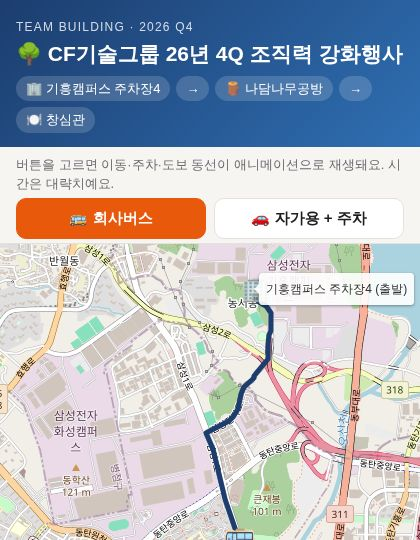
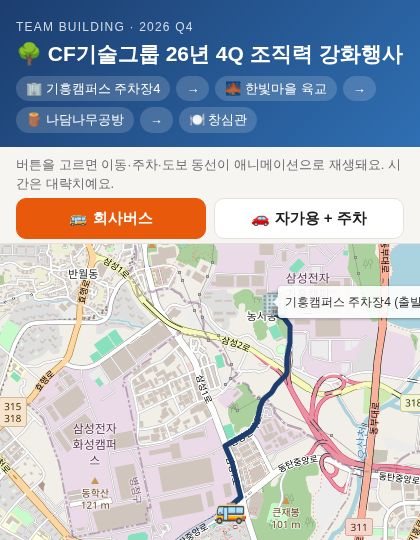
CF 4Q page: company bus drops at 한빛마을 overpass
Claude-Session: https://claude.ai/code/session_01XLoGkQ55rH2pdQUErwRzSn

diff --git a/cf4q.html b/cf4q.html
@@ -29,7 +29,7 @@ main{padding:12px 16px 32px;max-width:760px;margin:0 auto}
 .ev{background:linear-gradient(135deg,#1c3d6e,#2f6fb3);color:#fff;padding:18px 16px 14px}.ev .k{font-size:12px;letter-spacing:.1em;opacity:.8}.ev h1{font-size:21px;margin:2px 0 6px}.flow{display:flex;flex-wrap:wrap;gap:6px;font-size:13px}.flow span{background:rgba(255,255,255,.16);border-radius:14px;padding:3px 10px}
 .toast{position:absolute;left:50%;top:12px;transform:translateX(-50%);z-index:999;background:var(--ink);color:var(--bg);padding:6px 12px;border-radius:20px;font-size:14px;font-weight:600;opacity:0;transition:opacity .3s;pointer-events:none}.toast.on{opacity:1}
 </style></head><body>
-<header class="ev"><div class="k">TEAM BUILDING · 2026 Q4</div><h1>🌳 CF기술그룹 26년 4Q 조직력 강화행사</h1><div class="flow"><span>🏢 기흥캠퍼스 주차장4</span><span>→</span><span>🪵 나담나무공방</span><span>→</span><span>🍽 창심관</span></div></header><p style="margin:8px 16px 0;color:var(--sub);font-size:13px">버튼을 고르면 이동·주차·도보 동선이 애니메이션으로 재생돼요. 시간은 대략치예요.</p>
+<header class="ev"><div class="k">TEAM BUILDING · 2026 Q4</div><h1>🌳 CF기술그룹 26년 4Q 조직력 강화행사</h1><div class="flow"><span>🏢 기흥캠퍼스 주차장4</span><span>→</span><span>🌉 한빛마을 육교</span><span>→</span><span>🪵 나담나무공방</span><span>→</span><span>🍽 창심관</span></div></header><p style="margin:8px 16px 0;color:var(--sub);font-size:13px">버튼을 고르면 이동·주차·도보 동선이 애니메이션으로 재생돼요. 시간은 대략치예요.</p>
 <div class="tabs" id="mtabs"><button data-m="bus" class="on">🚌 회사버스</button><button data-m="car">🚗 자가용 + 주차</button></div>
 <div style="position:relative"><div id="map"></div><div class="toast" id="toast"></div></div>
 <main><div class="stats" id="stats"></div><div id="steps"></div><div class="note" id="note"></div>
@@ -37,7 +37,7 @@ main{padding:12px 16px 32px;max-width:760px;margin:0 auto}
 <div class="btns"><a target="_blank" rel="noopener" href="https://map.kakao.com/link/from/나담나무공방,37.2061036,127.0724585/to/창심관,37.2052149,127.0742600">🚶 공방→창심관 길찾기</a><button id="replay">▶ 다시 재생</button></div></main>
 <script src="https://cdnjs.cloudflare.com/ajax/libs/leaflet/1.9.4/leaflet.min.js"></script>
 <script>
-const D={car:[[37.228236,127.081158],[37.228047,127.081158],[37.228047,127.080939],[37.227876,127.080971],[37.227771,127.081179],[37.227671,127.081196],[37.227363,127.081572],[37.227139,127.082136],[37.227016,127.082376],[37.226547,127.082709],[37.226399,127.082707],[37.226056,127.082717],[37.225269,127.082675],[37.225012,127.082539],[37.224325,127.082493],[37.223817,127.082459],[37.223596,127.082454],[37.223414,127.082428],[37.223312,127.082389],[37.223215,127.082338],[37.222924,127.082019],[37.222645,127.081709],[37.222544,127.081587],[37.222439,127.081464],[37.222366,127.08139],[37.22203,127.081134],[37.221956,127.081058],[37.221904,127.08098],[37.221834,127.080856],[37.221752,127.080709],[37.221689,127.08061],[37.221603,127.080511],[37.221527,127.080441],[37.221409,127.080365],[37.221327,127.080306],[37.221214,127.080249],[37.221059,127.08018],[37.220882,127.080126],[37.220641,127.080056],[37.220194,127.079931],[37.219988,127.079847],[37.219844,127.079761],[37.219674,127.079644],[37.21952,127.079503],[37.219368,127.079308],[37.219287,127.07921],[37.219203,127.079054],[37.218712,127.077893],[37.218542,127.077463],[37.218484,127.077312],[37.21845,127.07724],[37.21843,127.077196],[37.218403,127.077136],[37.218242,127.077217],[37.217961,127.077362],[37.217626,127.077556],[37.217526,127.077608],[37.217119,127.077773],[37.217036,127.077806],[37.216941,127.077843],[37.216775,127.077888],[37.216483,127.077973],[37.216247,127.078051],[37.215011,127.078417],[37.214918,127.078497],[37.214824,127.078523],[37.21452,127.07861],[37.214421,127.078638],[37.214277,127.078683],[37.214097,127.078733],[37.213944,127.078784],[37.213762,127.078848],[37.21365,127.078887],[37.211584,127.07973],[37.211481,127.079772],[37.21147,127.079776],[37.211313,127.079841],[37.211172,127.079899],[37.209674,127.080518],[37.209578,127.080515],[37.209475,127.080501],[37.209423,127.080486],[37.209365,127.080455],[37.209317,127.080429],[37.209271,127.080389],[37.209217,127.08032],[37.209075,127.080062],[37.20903,127.079905],[37.208896,127.07947],[37.208729,127.079012],[37.208588,127.078682],[37.208459,127.078383],[37.208407,127.078279],[37.208377,127.078218],[37.208317,127.078096],[37.20826,127.07798],[37.208177,127.077823],[37.208073,127.077628],[37.207911,127.077349],[37.207749,127.077099],[37.207697,127.077021],[37.207616,127.076898],[37.207462,127.076693],[37.20742,127.076635],[37.207221,127.076381],[37.207029,127.076153],[37.206988,127.076105],[37.206946,127.076056],[37.206898,127.076006],[37.20674,127.075845],[37.206642,127.075743],[37.20653,127.075629],[37.206474,127.075571],[37.206222,127.075336],[37.206167,127.075285],[37.206106,127.075227],[37.205871,127.075042],[37.205655,127.074882],[37.205417,127.074725],[37.205257,127.07463],[37.205076,127.074517],[37.204849,127.074396],[37.204705,127.074311],[37.204488,127.074215],[37.204555,127.073998],[37.204748,127.073377],[37.20488,127.073441],[37.204959,127.073479],[37.205334,127.073663],[37.205309,127.073723],[37.205194,127.074003],[37.20548,127.074209]],cbus:[[37.228236,127.081158],[37.228047,127.081158],[37.228047,127.080939],[37.227876,127.080971],[37.227771,127.081179],[37.227671,127.081196],[37.227363,127.081572],[37.227139,127.082136],[37.227016,127.082376],[37.226547,127.082709],[37.226399,127.082707],[37.226056,127.082717],[37.225269,127.082675],[37.225012,127.082539],[37.224325,127.082493],[37.223817,127.082459],[37.223596,127.082454],[37.223414,127.082428],[37.223312,127.082389],[37.223215,127.082338],[37.222924,127.082019],[37.222645,127.081709],[37.222544,127.081587],[37.222439,127.081464],[37.222366,127.08139],[37.22203,127.081134],[37.221956,127.081058],[37.221904,127.08098],[37.221834,127.080856],[37.221752,127.080709],[37.221689,127.08061],[37.221603,127.080511],[37.221527,127.080441],[37.221409,127.080365],[37.221327,127.080306],[37.221214,127.080249],[37.221059,127.08018],[37.220882,127.080126],[37.220641,127.080056],[37.220194,127.079931],[37.219988,127.079847],[37.219844,127.079761],[37.219674,127.079644],[37.21952,127.079503],[37.219368,127.079308],[37.219287,127.07921],[37.219203,127.079054],[37.218712,127.077893],[37.218542,127.077463],[37.218484,127.077312],[37.21845,127.07724],[37.21843,127.077196],[37.218403,127.077136],[37.218242,127.077217],[37.217961,127.077362],[37.217626,127.077556],[37.217526,127.077608],[37.217119,127.077773],[37.217036,127.077806],[37.216941,127.077843],[37.216775,127.077888],[37.216483,127.077973],[37.216247,127.078051],[37.215011,127.078417],[37.214918,127.078497],[37.214824,127.078523],[37.21452,127.07861],[37.214421,127.078638],[37.214277,127.078683],[37.214097,127.078733],[37.213944,127.078784],[37.213762,127.078848],[37.21365,127.078887],[37.211584,127.07973],[37.211481,127.079772],[37.21147,127.079776],[37.211266,127.079679],[37.211161,127.079232],[37.211043,127.078786],[37.211011,127.07869],[37.21095,127.078509],[37.210865,127.078254],[37.210655,127.077673],[37.21048,127.077261],[37.210431,127.077147],[37.21009,127.076457],[37.209823,127.075971],[37.20961,127.075633],[37.209408,127.075313],[37.209039,127.074791],[37.208963,127.074685],[37.208911,127.07461],[37.208811,127.074477],[37.208574,127.0742],[37.20836,127.073955],[37.208137,127.073729],[37.208,127.073586],[37.207889,127.073471],[37.207752,127.073342],[37.207385,127.072993],[37.20729,127.072913],[37.206969,127.072677],[37.206495,127.072346],[37.206252,127.072197],[37.206214,127.072174]]};
+const D={car:[[37.228236,127.081158],[37.228047,127.081158],[37.228047,127.080939],[37.227876,127.080971],[37.227771,127.081179],[37.227671,127.081196],[37.227363,127.081572],[37.227139,127.082136],[37.227016,127.082376],[37.226547,127.082709],[37.226399,127.082707],[37.226056,127.082717],[37.225269,127.082675],[37.225012,127.082539],[37.224325,127.082493],[37.223817,127.082459],[37.223596,127.082454],[37.223414,127.082428],[37.223312,127.082389],[37.223215,127.082338],[37.222924,127.082019],[37.222645,127.081709],[37.222544,127.081587],[37.222439,127.081464],[37.222366,127.08139],[37.22203,127.081134],[37.221956,127.081058],[37.221904,127.08098],[37.221834,127.080856],[37.221752,127.080709],[37.221689,127.08061],[37.221603,127.080511],[37.221527,127.080441],[37.221409,127.080365],[37.221327,127.080306],[37.221214,127.080249],[37.221059,127.08018],[37.220882,127.080126],[37.220641,127.080056],[37.220194,127.079931],[37.219988,127.079847],[37.219844,127.079761],[37.219674,127.079644],[37.21952,127.079503],[37.219368,127.079308],[37.219287,127.07921],[37.219203,127.079054],[37.218712,127.077893],[37.218542,127.077463],[37.218484,127.077312],[37.21845,127.07724],[37.21843,127.077196],[37.218403,127.077136],[37.218242,127.077217],[37.217961,127.077362],[37.217626,127.077556],[37.217526,127.077608],[37.217119,127.077773],[37.217036,127.077806],[37.216941,127.077843],[37.216775,127.077888],[37.216483,127.077973],[37.216247,127.078051],[37.215011,127.078417],[37.214918,127.078497],[37.214824,127.078523],[37.21452,127.07861],[37.214421,127.078638],[37.214277,127.078683],[37.214097,127.078733],[37.213944,127.078784],[37.213762,127.078848],[37.21365,127.078887],[37.211584,127.07973],[37.211481,127.079772],[37.21147,127.079776],[37.211313,127.079841],[37.211172,127.079899],[37.209674,127.080518],[37.209578,127.080515],[37.209475,127.080501],[37.209423,127.080486],[37.209365,127.080455],[37.209317,127.080429],[37.209271,127.080389],[37.209217,127.08032],[37.209075,127.080062],[37.20903,127.079905],[37.208896,127.07947],[37.208729,127.079012],[37.208588,127.078682],[37.208459,127.078383],[37.208407,127.078279],[37.208377,127.078218],[37.208317,127.078096],[37.20826,127.07798],[37.208177,127.077823],[37.208073,127.077628],[37.207911,127.077349],[37.207749,127.077099],[37.207697,127.077021],[37.207616,127.076898],[37.207462,127.076693],[37.20742,127.076635],[37.207221,127.076381],[37.207029,127.076153],[37.206988,127.076105],[37.206946,127.076056],[37.206898,127.076006],[37.20674,127.075845],[37.206642,127.075743],[37.20653,127.075629],[37.206474,127.075571],[37.206222,127.075336],[37.206167,127.075285],[37.206106,127.075227],[37.205871,127.075042],[37.205655,127.074882],[37.205417,127.074725],[37.205257,127.07463],[37.205076,127.074517],[37.204849,127.074396],[37.204705,127.074311],[37.204488,127.074215],[37.204555,127.073998],[37.204748,127.073377],[37.20488,127.073441],[37.204959,127.073479],[37.205334,127.073663],[37.205309,127.073723],[37.205194,127.074003],[37.20548,127.074209]],cbus:[[37.228236,127.081158],[37.228047,127.081158],[37.228047,127.080939],[37.227876,127.080971],[37.227771,127.081179],[37.227671,127.081196],[37.227363,127.081572],[37.227139,127.082136],[37.227016,127.082376],[37.226547,127.082709],[37.226399,127.082707],[37.226056,127.082717],[37.225269,127.082675],[37.225012,127.082539],[37.224325,127.082493],[37.223817,127.082459],[37.223596,127.082454],[37.223414,127.082428],[37.223312,127.082389],[37.223215,127.082338],[37.222924,127.082019],[37.222645,127.081709],[37.222544,127.081587],[37.222439,127.081464],[37.222366,127.08139],[37.22203,127.081134],[37.221956,127.081058],[37.221904,127.08098],[37.221834,127.080856],[37.221752,127.080709],[37.221689,127.08061],[37.221603,127.080511],[37.221527,127.080441],[37.221409,127.080365],[37.221327,127.080306],[37.221214,127.080249],[37.221059,127.08018],[37.220882,127.080126],[37.220641,127.080056],[37.220194,127.079931],[37.219988,127.079847],[37.219844,127.079761],[37.219674,127.079644],[37.21952,127.079503],[37.219368,127.079308],[37.219287,127.07921],[37.219203,127.079054],[37.218712,127.077893],[37.218542,127.077463],[37.218484,127.077312],[37.21845,127.07724],[37.21843,127.077196],[37.218403,127.077136],[37.218242,127.077217],[37.217961,127.077362],[37.217626,127.077556],[37.217526,127.077608],[37.217119,127.077773],[37.217036,127.077806],[37.216941,127.077843],[37.216775,127.077888],[37.216483,127.077973],[37.216247,127.078051],[37.215011,127.078417],[37.214918,127.078497],[37.214824,127.078523],[37.214718,127.078354],[37.214573,127.078122],[37.214537,127.078066],[37.214421,127.077885],[37.213977,127.077172],[37.213511,127.076242],[37.213135,127.075549],[37.21283,127.074826],[37.212712,127.074568],[37.212636,127.074403],[37.212427,127.073981],[37.212251,127.073672],[37.211904,127.073127],[37.211606,127.07268],[37.211455,127.07246],[37.211313,127.072259],[37.211181,127.072075],[37.210907,127.071706],[37.210699,127.071464],[37.210483,127.071223],[37.210233,127.070969],[37.209968,127.070708],[37.209898,127.070633],[37.209729,127.070449],[37.209667,127.070381],[37.209553,127.070257],[37.209507,127.070209],[37.209464,127.070168],[37.209308,127.07003],[37.209028,127.069781],[37.208544,127.069421],[37.208146,127.069163],[37.20796,127.069043]]};
 const START=D.car[0];
 const R=D.car[D.car.length-1];
 // 북광장 공영주차장 (화성도시공사 운영 노상주차장, OSM 실제 영역)
@@ -46,7 +46,10 @@ const M0=[37.205324,127.073900],V=[0.000736,0.000510],U=[-0.0000445,0.0001275]; 
 const P=(t,s)=>[M0[0]+V[0]*t+U[0]*s,M0[1]+V[1]*t+U[1]*s];
 const DEST=[37.2052149,127.0742600]; // 창심관 · 노작로 193 (카카오맵 좌표)
 const SHOP=[37.2061036,127.0724585]; // 나담나무공방 · 동탄반석로 196 (카카오맵 좌표)
-const DROP=D.cbus[D.cbus.length-1];   // 회사버스 하차 (동탄반석로, 공방 앞)
+const DROP=D.cbus[D.cbus.length-1];   // 회사버스 하차: 한빛마을 육교 앞 (동탄중앙로 남행 쪽)
+// 한빛마을 육교 (OSM way 455106455, 동탄중앙로 횡단 나선형 보도육교) 서→동
+const BRIDGE=[[37.2081962,127.0690805],[37.2081534,127.068944],[37.2081083,127.0688652],[37.2080371,127.0688319],[37.207974,127.068826],[37.2078949,127.0688555],[37.2078287,127.0689198],[37.2077594,127.0690196],[37.2077262,127.0691237],[37.2076963,127.0692176],[37.2076963,127.0693302],[37.2077091,127.0693999],[37.2077454,127.0694724],[37.2077936,127.0695158],[37.2078448,127.0695373],[37.2079163,127.069518],[37.2079993,127.0694747]];
+const TOSHOP=[[37.2079993,127.0694747],[37.20782,127.06935],[37.20741,127.07028],[37.2072,127.07076],[37.20653,127.07228],[37.20649,127.07235],SHOP]; // 육교 동쪽 보행로(OSM way 481184968) → 공방
 const ST=[[37.20589,127.07232],[37.20560,127.07300],[37.20540,127.07380]]; // 동탄중심상가2길 보행 동선
 const AISLE=P(0.80,0), SPOT=P(0.70,-0.7);
 const PARK=[R,P(0.30,1.05),P(0.30,0),AISLE];             // 입구 → 통로 따라 지나치기
@@ -63,12 +66,13 @@ const ROUTES={
         {m:"walk",p:WALK2,t:2800,z:18,msg:"🚶 공방 → 창심관 (도보 2~3분)"}],
   steps:[["🏢","기흥캠퍼스 주차장4 출발","삼성2로96번길 → 삼성전자로","0분"],["🛣","삼성1로 → 노작로","약 1.8km","4분"],["🅿","북광장 공영주차장 주차","창심관 바로 앞 · 유료 · 저녁엔 만차 잦음 → 카풀 추천","10분"],["🪵","나담나무공방 (동탄반석로 196)","동탄중심상가2길 따라 서쪽 약 200m","15분"],["🍽","창심관 (노작로 193)","공방에서 도보 211m · 약 3분 (카카오맵) · 주차장 바로 앞","행사 후"]],
   note:"차는 공영주차장에 한 번만 세우고 공방 ↔ 창심관은 걸어서 이동하는 동선이에요. 공방·창심관·주차장4 위치는 카카오맵 좌표예요. 회식 후엔 대리운전·택시를 이용하세요."},
- bus:{stats:[["약 15분","공방 앞 하차까지"],["3.1km","운행 약 7~10분"],["회사버스","주차장4 출발"]],
-  legs:[{m:"cbus",p:D.cbus,t:5200,z:null,msg:"🚌 회사버스 주차장4 출발! 삼성전자로 → 삼성1로"},
-        {m:"walk",p:[DROP,SHOP],t:1200,z:19,msg:"🚏 동탄반석로 공방 앞 하차",arrive:"🪵 나담나무공방 도착! 목공 체험"},
+ bus:{stats:[["약 18분","공방 도착까지"],["2.9km","버스 약 8~10분"],["도보 약 7분","육교 건너 공방까지"]],
+  legs:[{m:"cbus",p:D.cbus,t:5200,z:null,msg:"🚌 회사버스 주차장4 출발! 삼성1로 → 동탄중앙로"},
+        {m:"walk",p:[DROP,...BRIDGE],t:2600,z:19,msg:"🚏 한빛마을 육교 앞 하차 → 육교로 동탄중앙로 건너기"},
+        {m:"walk",p:TOSHOP,t:3600,z:17,msg:"🚶 육교 동쪽 보행로 따라 공방까지 (약 400m)",arrive:"🪵 나담나무공방 도착! 목공 체험"},
         {m:"walk",p:WALK2,t:3000,z:18,msg:"🚶 공방 → 창심관 (도보 211m · 3분)"}],
-  steps:[["🏢","기흥캠퍼스 주차장4 집결·출발","회사버스 탑승","0분"],["🚌","삼성전자로 → 삼성1로 → 동탄반석로","약 3.1km","2분"],["🚏","동탄반석로 하차","나담나무공방 바로 앞 (동탄1동 행정복지센터 맞은편)","12분"],["🪵","나담나무공방 (동탄반석로 196)","목공 체험","15분"],["🍽","창심관 (노작로 193)","동탄중심상가2길 따라 걸어서 211m · 약 3분","행사 후"]],
-  note:"회사버스는 공방 앞 동탄반석로에 정차하는 걸로 그렸어요. 실제 정차 위치는 버스 기사님과 맞춰 주세요. 창심관은 노작로 쪽이라 귀가 버스는 노작로(창심관 앞)에서 타면 가까워요."}
+  steps:[["🏢","기흥캠퍼스 주차장4 집결·출발","회사버스 탑승","0분"],["🚌","삼성전자로 → 삼성1로 → 동탄중앙로","약 2.9km, 남쪽 방향","2분"],["🚏","한빛마을 육교 앞 하차","동탄중앙로 (시범한빛마을 쪽)","10분"],["🌉","한빛마을 육교로 동탄중앙로 건너기","나선형 보도육교 · 1~2분","12분"],["🚶","육교 동쪽 보행로 따라 남동쪽으로","동탄아이파크 옆 산책로 → 동탄반석로, 약 400m","13분"],["🪵","나담나무공방 (동탄반석로 196)","목공 체험","18분"],["🍽","창심관 (노작로 193)","동탄중심상가2길 따라 걸어서 211m · 약 3분","행사 후"]],
+  note:"한빛마을 육교는 카카오맵에 이름이 없어서, OpenStreetMap에서 시범한빛마을 옆 동탄중앙로를 건너는 나선형 보도육교로 표시했어요. 다른 육교라면 알려 주세요. 육교에서 공방까지는 아파트 옆 보행로로 약 400m, 6~7분이에요. 귀가 버스는 창심관 쪽(노작로)에서 타면 가까워요."}
 };
 const map=L.map("map",{zoomControl:false}).setView([37.215,127.077],15);
 L.tileLayer("https://tile.openstreetmap.org/{z}/{x}/{y}.png",{maxZoom:20,maxNativeZoom:19,attribution:"© OpenStreetMap"}).addTo(map);
@@ -80,6 +84,7 @@ for(let k=0;k<10;k++){const t=0.08+k*0.09;L.polyline([P(t,-0.35),P(t,-0.95)],{co
 L.marker(P(1.08,0.3),{icon:L.divIcon({html:'<span class="lotlbl">🅿 공영주차장</span>',className:"",iconSize:[80,16],iconAnchor:[40,8]})}).addTo(lot);
 L.marker(START,{icon:icon("🏢")}).addTo(map).bindTooltip("기흥캠퍼스 주차장4 (출발)",{permanent:true,direction:"right"});
 L.marker(DEST,{icon:icon("🍽")}).addTo(map).bindTooltip("② 창심관",{permanent:true,direction:"right"});
+L.marker(BRIDGE[8],{icon:icon("🌉")}).addTo(map).bindTooltip("한빛마을 육교 (하차)",{permanent:true,direction:"left"});
 L.marker(SHOP,{icon:icon("🪵")}).addTo(map).bindTooltip("① 나담나무공방",{permanent:true,direction:"left"});
 let layer=L.layerGroup().addTo(map),mover=null,raf=0,m="bus",run=0;
 const dist=(a,b)=>Math.hypot(a[0]-b[0],(a[1]-b[1])*0.8);
